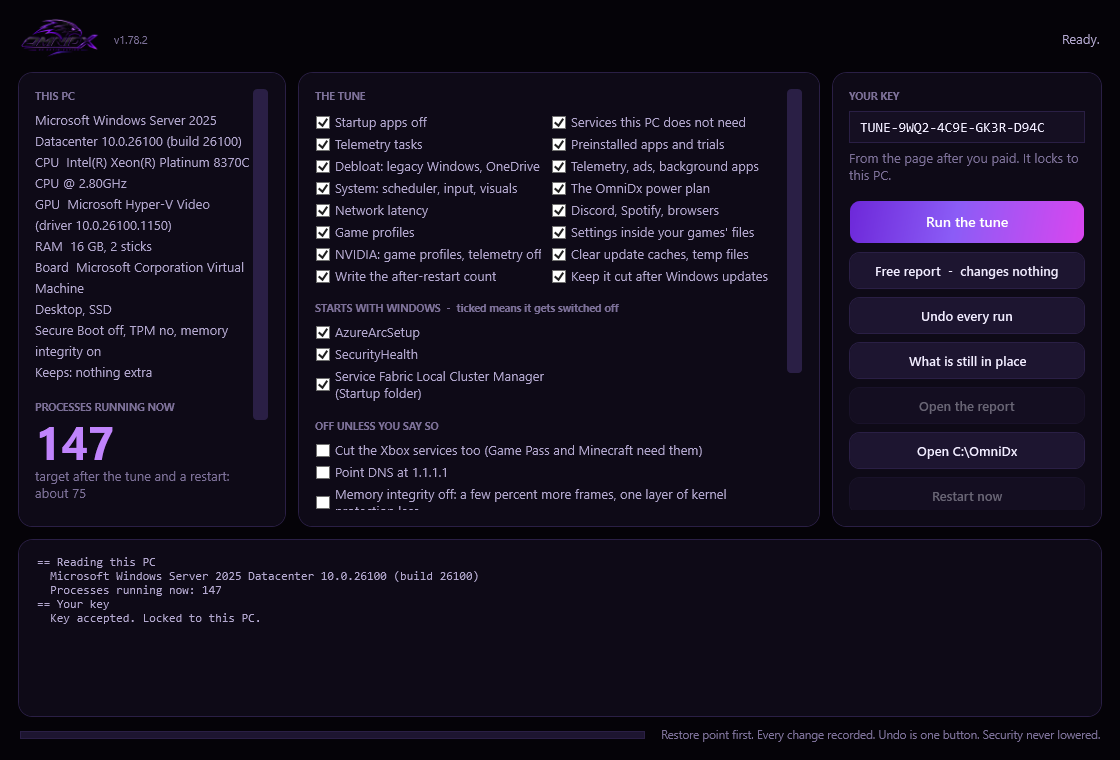
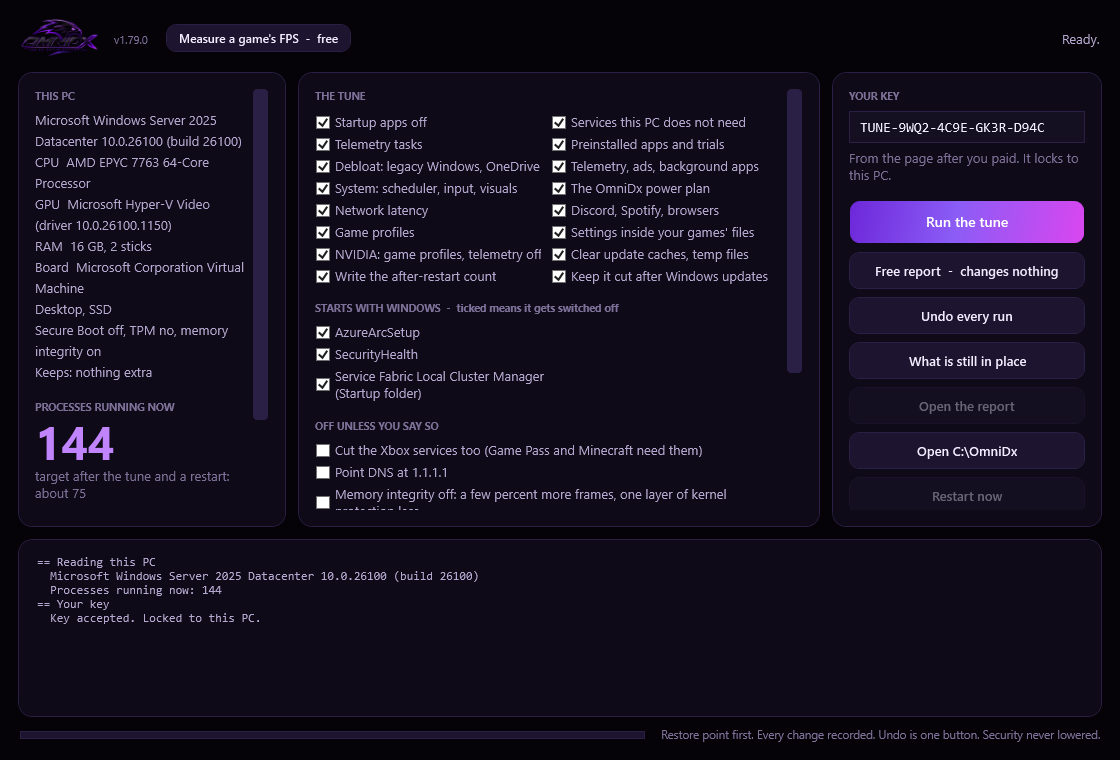
Windows check: the app window, the numbers, the log, and the script this run verified

Changed region(s): [[0.125, 0.0303, 0.3125, 0.0908], [0.0312, 0.2118, 0.2188, 0.2724], [0.0625, 0.5447, 0.125, 0.6053]]

diff --git a/studio/assets/ci-report.html b/studio/assets/ci-report.html
@@ -1,5 +1,5 @@
 <!doctype html><html lang="en"><head><meta charset="utf-8"><meta name="viewport" content="width=device-width,initial-scale=1">
-<title>OmniDx Tune report - 2026-09-26_08-22-51</title>
+<title>OmniDx Tune report - 2026-09-26_10-11-32</title>
 <style>
 body{margin:0;background:#050308;color:#f1ecff;font:15px/1.6 -apple-system,'Segoe UI',Roboto,system-ui,sans-serif}
 main{max-width:860px;margin:0 auto;padding:36px 20px 80px}
@@ -17,118 +17,116 @@ details{margin:10px 0;background:#0e0a17;border:1px solid #2a1f45;border-radius:
 details pre{font:12.5px/1.5 ui-monospace,Consolas,monospace;color:#b3a8cf;overflow:auto;max-height:420px;margin:10px 0 4px}
 .bios ul{list-style:none;padding-left:2px}.bios li{margin:8px 0;color:#f1ecff}.bios{background:#0e0a17;border:1px solid #2a1f45;border-radius:14px;padding:6px 18px}
 </style></head><body><main>
-<h1><img src="https://omnidx.net/studio/assets/icons/icon-192.png" alt="" width="44" height="44" style="vertical-align:middle;margin-right:10px" onerror="this.remove()">OmniDx Tune <span class="muted" style="font-size:16px">v1.78.2</span></h1>
-<p class="sub">Saturday, September 26, 2026 8:24 AM &middot; Intel(R) Xeon(R) Platinum 8370C CPU @ 2.80GHz &middot; Microsoft Hyper-V Video &middot; 16 GB &middot; Microsoft Corporation Virtual Machine</p>
-<div class="big"><div><b>148</b><span>processes before</span></div><div><b>139</b><span>now, before a restart</span></div><div><b>~75</b><span>target for this PC after a restart</span></div></div>
+<h1><img src="https://omnidx.net/studio/assets/icons/icon-192.png" alt="" width="44" height="44" style="vertical-align:middle;margin-right:10px" onerror="this.remove()">OmniDx Tune <span class="muted" style="font-size:16px">v1.79.0</span></h1>
+<p class="sub">Saturday, September 26, 2026 10:12 AM &middot; AMD EPYC 7763 64-Core Processor &middot; Microsoft Hyper-V Video &middot; 16 GB &middot; Microsoft Corporation Virtual Machine</p>
+<div class="big"><div><b>145</b><span>processes before</span></div><div><b>136</b><span>now, before a restart</span></div><div><b>~75</b><span>target for this PC after a restart</span></div></div>
 <p class='muted'>The card, for posting (the same numbers, on one picture): <code>ci-card.png</code></p><img src='ci-card.png' alt='Before and after, on a card' style='max-width:340px;width:100%;border-radius:14px;border:1px solid #2a1f45'>
 <p class="muted">Many of the "now" processes are only waiting to be stopped. The number after a restart is the one that counts; <code>C:\OmniDx\after-restart.txt</code> gets it at your next sign-in. Kept cut: a task at each sign-in puts back what a Windows update turns on; undo removes it.</p>
-<h2>Next steps</h2><ol><li>Restart. The services told to stop are still unwinding until you do, and the after-restart count lands in C:\OmniDx\after-restart.txt at your next sign-in, with the boot time of that start next to the one from before the tune.</li><li>BIOS: items 1 to 3 (memory profile, Re-Size BAR, CSM). Ten minutes, and the memory profile alone is the biggest free gain any PC has.</li><li>GPU control panel: low latency mode, power management and V-Sync, from the list below. Two minutes.</li><li>Launchers and overlays: the list below names the one or two settings in each that matter; the overlays are the usual cause of a stutter that &quot;came from nowhere&quot;.</li><li>Any time: $env:OMNIDX_MODE=&#39;status&#39;; irm omnidx.net/go.ps1 | iex shows what is still in place; undo is one line, and it is in this report.</li></ol>
-<h2>Before and after</h2><table><tr><th></th><th>Before</th><th>Now</th></tr><tr><td>Processes</td><td>148</td><td>139</td></tr><tr><td>Threads</td><td>1500</td><td>1436</td></tr><tr><td>Handles</td><td>49775</td><td>47201</td></tr><tr><td>Memory in use</td><td>2834 MB</td><td>2903 MB</td></tr><tr><td>Idle CPU</td><td>1.6%</td><td>2.2%</td></tr><tr><td>DPC time</td><td>0%</td><td>0%</td></tr></table>
+<h2>Next steps</h2><ol><li>Restart. The services told to stop are still unwinding until you do, and the after-restart count lands in C:\OmniDx\after-restart.txt at your next sign-in, with the boot time of that start next to the one from before the tune.</li><li>BIOS: items 1 to 3 (memory profile, Re-Size BAR, CSM). Ten minutes, and the memory profile alone is the biggest free gain any PC has.</li><li>GPU control panel: low latency mode, power management and V-Sync, from the list below. Two minutes.</li><li>Launchers and overlays: the list below names the one or two settings in each that matter; the overlays are the usual cause of a stutter that &quot;came from nowhere&quot;.</li><li>Your frame rate, measured, after the restart: irm omnidx.net/bench.ps1 | iex records a minute of a game with PresentMon (free, changes nothing). Ran it before the tune? It puts the two side by side and draws a card to post.</li><li>Any time: $env:OMNIDX_MODE=&#39;status&#39;; irm omnidx.net/go.ps1 | iex shows what is still in place; undo is one line, and it is in this report.</li></ol>
+<h2>Before and after</h2><table><tr><th></th><th>Before</th><th>Now</th></tr><tr><td>Processes</td><td>145</td><td>136</td></tr><tr><td>Threads</td><td>1371</td><td>1400</td></tr><tr><td>Handles</td><td>48930</td><td>46586</td></tr><tr><td>Memory in use</td><td>2863 MB</td><td>2948 MB</td></tr><tr><td>Idle CPU</td><td>0.2%</td><td>0.6%</td></tr><tr><td>DPC time</td><td>0%</td><td>0%</td></tr></table>
 <h2>Gone, by name</h2><p class='muted'>Running before, not running now: spoolsv</p>
-<details><summary>Every process, before (56 names)</summary><pre>svchost                                  x81     1,193 MB
-conhost                                  x4         33 MB
+<details><summary>Every process, before (55 names)</summary><pre>svchost                                  x79     1,177 MB
+conhost                                  x4         34 MB
 notepad                                  x3         89 MB
-taskhostw                                x3         63 MB
-WmiPrvSE                                 x3         62 MB
+taskhostw                                x3         88 MB
+WmiPrvSE                                 x3         74 MB
 csrss                                    x2         14 MB
 fontdrvhost                              x2         11 MB
 SMSvcHost                                x2         50 MB
-AzureArcSysTray                          x1         19 MB
-ctfmon                                   x1         26 MB
+AzureArcSysTray                          x1         20 MB
+ctfmon                                   x1         31 MB
 DefenderSessionHelper                    x1          6 MB
 dockerd                                  x1         46 MB
 dwm                                      x1         78 MB
-explorer                                 x1        160 MB
-hosted-compute-agent                     x1         21 MB
+explorer                                 x1        158 MB
+hosted-compute-agent                     x1         18 MB
 Idle                                     x1          0 MB
 LsaIso                                   x1          4 MB
 lsass                                    x1         31 MB
 MpDefenderCoreService                    x1         29 MB
 mqsvc                                    x1         19 MB
 msdtc                                    x1         14 MB
-MsMpEng                                  x1        162 MB
+MsMpEng                                  x1        163 MB
 node                                     x1         40 MB
 OpenConsole                              x1         14 MB
 powershell                               x1        167 MB
-provjobd.exe3311307104                   x1         36 MB
-Registry                                 x1         80 MB
-Runner.Listener                          x1         74 MB
-Runner.Worker                            x1        110 MB
+provjobd.exe4082375059                   x1         20 MB
+Registry                                 x1        116 MB
+Runner.Listener                          x1         71 MB
+Runner.Worker                            x1        101 MB
 RuntimeBroker                            x1         47 MB
-SearchHost                               x1        109 MB
+SearchHost                               x1        108 MB
 Secure System                            x1         52 MB
 SecurityHealthService                    x1         12 MB
 ServiceFabricLocalClusterManager         x1         36 MB
-services                                 x1         11 MB
+services                                 x1         12 MB
 ShellHost                                x1         42 MB
 sihost                                   x1         43 MB
-smartscreen                              x1         12 MB
 smss                                     x1          2 MB
 spoolsv                                  x1         22 MB
 sqlwriter                                x1         11 MB
 sshd                                     x1          9 MB
 StartMenuExperienceHost                  x1        130 MB
 System                                   x1          0 MB
-TiWorker                                 x1         30 MB
+TiWorker                                 x1         32 MB
 TrustedInstaller                         x1         10 MB
 UserOOBEBroker                           x1         11 MB
 vmcompute                                x1         11 MB
-vmms                                     x1         33 MB
+vmms                                     x1         34 MB
 WaAppAgent                               x1         87 MB
 WaSecAgentProv                           x1          5 MB
 WindowsAzureGuestAgent                   x1         70 MB
 WindowsTerminal                          x1         85 MB
 wininit                                  x1          9 MB
 winlogon                                 x1         13 MB
-wslservice                               x1         27 MB</pre></details><details><summary>Every process, after (56 names)</summary><pre>svchost                                  x72     1,083 MB
-conhost                                  x4         33 MB
-notepad                                  x3         88 MB
-taskhostw                                x3         57 MB
-WmiPrvSE                                 x3         69 MB
+wslservice                               x1         27 MB</pre></details><details><summary>Every process, after (55 names)</summary><pre>svchost                                  x70     1,039 MB
+conhost                                  x4         34 MB
+notepad                                  x3         89 MB
+taskhostw                                x3         87 MB
+WmiPrvSE                                 x3         79 MB
 csrss                                    x2         14 MB
 fontdrvhost                              x2         11 MB
 SMSvcHost                                x2         50 MB
-AzureArcSysTray                          x1         19 MB
-ctfmon                                   x1         26 MB
+AzureArcSysTray                          x1         20 MB
+ctfmon                                   x1         31 MB
 DefenderSessionHelper                    x1          6 MB
 dllhost                                  x1         13 MB
 dockerd                                  x1         46 MB
 dwm                                      x1         78 MB
-explorer                                 x1        160 MB
-hosted-compute-agent                     x1         20 MB
+explorer                                 x1        159 MB
+hosted-compute-agent                     x1         17 MB
 Idle                                     x1          0 MB
 LsaIso                                   x1          4 MB
 lsass                                    x1         31 MB
 MpDefenderCoreService                    x1         29 MB
 mqsvc                                    x1         19 MB
 msdtc                                    x1         14 MB
-MsMpEng                                  x1        162 MB
-node                                     x1         39 MB
+MsMpEng                                  x1        163 MB
+node                                     x1         38 MB
 OpenConsole                              x1         14 MB
-powershell                               x1        199 MB
-provjobd.exe3311307104                   x1         35 MB
+powershell                               x1        228 MB
+provjobd.exe4082375059                   x1         20 MB
 Registry                                 x1         65 MB
 Runner.Listener                          x1         67 MB
-Runner.Worker                            x1        104 MB
+Runner.Worker                            x1         98 MB
 RuntimeBroker                            x1         47 MB
-SearchHost                               x1        109 MB
+SearchHost                               x1        108 MB
 Secure System                            x1         52 MB
 SecurityHealthService                    x1         12 MB
 ServiceFabricLocalClusterManager         x1         36 MB
-services                                 x1         11 MB
+services                                 x1         12 MB
 ShellHost                                x1         42 MB
-sihost                                   x1         43 MB
-smartscreen                              x1         12 MB
+sihost                                   x1         42 MB
 smss                                     x1          2 MB
 sqlwriter                                x1         11 MB
 sshd                                     x1          9 MB
 StartMenuExperienceHost                  x1        131 MB
 System                                   x1          0 MB
-TiWorker                                 x1         39 MB
+TiWorker                                 x1         41 MB
 TrustedInstaller                         x1         10 MB
 UserOOBEBroker                           x1         11 MB
 vmcompute                                x1         11 MB
-vmms                                     x1         33 MB
+vmms                                     x1         34 MB
 WaAppAgent                               x1         87 MB
 WaSecAgentProv                           x1          5 MB
 WindowsAzureGuestAgent                   x1         70 MB
@@ -138,14 +136,14 @@ winlogon                                 x1         13 MB
 wslservice                               x1         27 MB</pre></details>
 <h2>Kept, and why</h2><ul><li>Defender, the firewall, Windows Update, audio, networking: always</li><li>Themes: Windows 10 falls back to the classic look without it</li><li>vmicguestinterface: this is a virtual machine</li><li>vmicheartbeat: this is a virtual machine</li><li>vmickvpexchange: this is a virtual machine</li><li>vmicrdv: this is a virtual machine</li><li>vmicshutdown: this is a virtual machine</li><li>vmictimesync: this is a virtual machine</li><li>vmicvmsession: this is a virtual machine</li><li>vmicvss: this is a virtual machine</li><li>XblAuthManager: Game Pass, the Xbox app or Minecraft is installed</li></ul>
 <h2>Warnings (3)</h2><div class="warn"><ul><li>The GPU driver dates from Jun 2006. A current driver is worth more than most tweaks.</li><li>This looks like a virtual machine. The tune will run, but the numbers mean little here.</li><li>Could not make a restore point (This functionality is not supported on this operating system.). The undo script still records everything.</li></ul></div>
-<h2>BIOS checklist for Microsoft Corporation Virtual Machine</h2><div class="bios"><ul><li>How to get in: restart, then press Del or F2 while the logo shows.</li><li>Where things are: the Advanced / Overclocking pages for memory, the PCI or Chipset page for Above 4G / Re-Size BAR, the Boot page for CSM, the Security page for TPM and Secure Boot.</li><li>1. Memory profile: enable XMP. Your RAM is running at the slow default until you do; this is the single biggest free gain on any PC. Pick the profile matching the speed printed on the sticks.</li><li>2. Re-Size BAR / Smart Access Memory: set Above 4G Decoding = Enabled, then Re-Size BAR Support = Auto/Enabled. Needs CSM off (next line). Worth 5-15% in many games on RTX 30/40/50 and RX 6000+.</li><li>3. CSM (Compatibility Support Module): Disabled. You already boot UEFI, so nothing depends on it, and Re-Size BAR needs it off.</li><li>4. Secure Boot: Enabled. Windows 11 and Vanguard expect it; on 10 it costs nothing. Set OS Type / Secure Boot Mode to Windows UEFI if asked.</li><li>5. TPM: not detected. Enable AMD fTPM (AMD) or Intel PTT (Intel) under Security / Trusted Computing. VALORANT on Windows 11 will not run without it.</li><li>6. Intel: leave MultiCore Enhancement at Auto; set the long and short power limits (PL1/PL2) to the chip&#39;s rated maximum if the board runs them lower. Do not touch voltages.</li><li>7. Global C-states / package C-states: Auto is fine. Disabling them buys nothing measurable in games and raises idle heat.</li><li>8. Fast Boot: Enabled. Full Screen Logo / Boot Logo: Disabled (a second off every boot).</li><li>9. Fan curves: set the CPU fan to reach 100% by 80 C and the case fans to a steady ramp. Sustained boost needs airflow more than anything.</li><li>10. Onboard devices you do not use: serial port, Wi-Fi/Bluetooth if wired, onboard audio if you use USB audio, RGB controllers. Each one removed is an interrupt source gone.</li><li>11. HPET: leave at default. The &#39;disable HPET&#39; tweak is from 2013 and hurts more than it helps on modern Windows.</li><li>12. Virtualisation (SVM / VT-x): leave on if you use WSL, Docker, an emulator, or play VALORANT or on FACEIT (their anti-cheat needs it, with IOMMU); otherwise off saves a little scheduling overhead.</li><li>After saving: Windows will boot normally. If it does not (rare, usually CSM), go back in and re-enable the last thing you changed.</li><li>Do not update the BIOS unless the vendor&#39;s notes mention a fix for your exact problem; a failed flash is the one thing here that cannot be undone from Windows.</li></ul></div>
+<h2>BIOS checklist for Microsoft Corporation Virtual Machine</h2><div class="bios"><ul><li>How to get in: restart, then press Del or F2 while the logo shows.</li><li>Where things are: the Advanced / Overclocking pages for memory, the PCI or Chipset page for Above 4G / Re-Size BAR, the Boot page for CSM, the Security page for TPM and Secure Boot.</li><li>1. Memory profile: enable EXPO (or DOCP / A-XMP on older boards). Your RAM is running at the slow default until you do; this is the single biggest free gain on any PC. Pick the profile matching the speed printed on the sticks.</li><li>2. Re-Size BAR / Smart Access Memory: set Above 4G Decoding = Enabled, then Re-Size BAR Support = Auto/Enabled. Needs CSM off (next line). Worth 5-15% in many games on RTX 30/40/50 and RX 6000+.</li><li>3. CSM (Compatibility Support Module): Disabled. You already boot UEFI, so nothing depends on it, and Re-Size BAR needs it off.</li><li>4. Secure Boot: Enabled. Windows 11 and Vanguard expect it; on 10 it costs nothing. Set OS Type / Secure Boot Mode to Windows UEFI if asked.</li><li>5. TPM: not detected. Enable AMD fTPM (AMD) or Intel PTT (Intel) under Security / Trusted Computing. VALORANT on Windows 11 will not run without it.</li><li>6. Precision Boost Overdrive: Enabled (or Advanced with the Curve Optimizer at a modest negative offset like -15 all-core if you know your cooler). Never a positive voltage offset.</li><li>7. Global C-states / package C-states: Auto is fine. Disabling them buys nothing measurable in games and raises idle heat.</li><li>8. Fast Boot: Enabled. Full Screen Logo / Boot Logo: Disabled (a second off every boot).</li><li>9. Fan curves: set the CPU fan to reach 100% by 80 C and the case fans to a steady ramp. Sustained boost needs airflow more than anything.</li><li>10. Onboard devices you do not use: serial port, Wi-Fi/Bluetooth if wired, onboard audio if you use USB audio, RGB controllers. Each one removed is an interrupt source gone.</li><li>11. HPET: leave at default. The &#39;disable HPET&#39; tweak is from 2013 and hurts more than it helps on modern Windows.</li><li>12. Virtualisation (SVM / VT-x): leave on if you use WSL, Docker, an emulator, or play VALORANT or on FACEIT (their anti-cheat needs it, with IOMMU); otherwise off saves a little scheduling overhead.</li><li>After saving: Windows will boot normally. If it does not (rare, usually CSM), go back in and re-enable the last thing you changed.</li><li>Do not update the BIOS unless the vendor&#39;s notes mention a fix for your exact problem; a failed flash is the one thing here that cannot be undone from Windows.</li></ul></div>
 <h2>GPU control panel</h2><ul><li>GPU not identified; use the vendor control panel to set low-latency mode on, power management to maximum performance and V-Sync off.</li></ul>
-<h2>Undervolt, not overclock, and a frame cap</h2><ul><li>GPU: the vendor tool has a frame limiter; set it three below the refresh rate with adaptive sync on.</li><li>CPU (Intel): on 13th and 14th gen, install the latest BIOS first (the microcode that stops the degradation), and leave the voltage alone unless the board exposes an offset; on a K chip a small negative offset is the same idea as Ryzen&#39;s Curve Optimizer.</li><li>Never an overclock: it is more heat and more voltage for frames you cannot see, and it is the first thing a crash report points at.</li></ul>
+<h2>Undervolt, not overclock, and a frame cap</h2><ul><li>GPU: the vendor tool has a frame limiter; set it three below the refresh rate with adaptive sync on.</li><li>CPU undervolt (Ryzen): BIOS &gt; PBO &gt; Curve Optimizer &gt; all cores, negative 15 to start (negative 30 on most 7000 and 9000 chips), then an hour of a game and a stress test; one step back on any crash or reboot. Lower temperature, higher sustained boost, nothing else changes.</li><li>Never an overclock: it is more heat and more voltage for frames you cannot see, and it is the first thing a crash report points at.</li></ul>
 <h2>Launchers, overlays and helper apps</h2><ul><li>Xbox app: Settings &gt; General &gt; &quot;Auto-start&quot; off (the entry the tune switched off), &quot;Show notifications&quot; off. Game Pass games install under C:\XboxGames and are already in the CPU-priority list where the game is listed.</li></ul>
 <h2>Left by other tools</h2><p class="muted">The tune changes none of these; it names them, with the way back.</p><ul><li>Nothing found: no other tool has left Defender, Windows Update, SmartScreen, User Account Control or the CPU mitigations switched off on this PC.</li></ul>
 <h2>Per game</h2><p class='muted'>Not found on this PC (the same profile applies if you install them): Fortnite, VALORANT, Counter-Strike 2, Marvel Rivals, Apex Legends, Call of Duty (Warzone / MW), Overwatch 2, Rainbow Six Siege, Rocket League, Minecraft, Roblox, League of Legends, GTA V / Online, Rust, Escape from Tarkov, PUBG, The Finals, Dota 2, Battlefield 6, Deadlock, Delta Force, ARC Raiders, Helldivers 2, Warframe, Destiny 2, Halo Infinite, Dead by Daylight, Hunt: Showdown 1896, War Thunder, World of Warcraft, Squad, Battlefield 2042, EA Sports FC 26, NBA 2K26, Palworld, Path of Exile 2, Diablo IV, Monster Hunter Wilds, Elden Ring / Nightreign, Cyberpunk 2077, Baldur&#39;s Gate 3, Star Citizen, DayZ, Arma Reforger, Hell Let Loose, Genshin Impact, Ready or Not, Final Fantasy XIV, STALKER 2, Sea of Thieves</p>
-<h2>What was done</h2><h4>Safety first</h4><div class='did'>Registry and service list backed up to C:\OmniDx\backup\2026-09-26_08-22-51</div><div class='did'>undo.ps1 written to C:\OmniDx\undo</div><h4>Startup apps</h4><div class='did'>off: AzureArcSetup</div><div class='did'>off: Service Fabric Local Cluster Manager (Startup folder)</div><h4>Services</h4><div class='did'>dmwappushservice -&gt; disabled  (telemetry push)</div><div class='did'>WerSvc -&gt; disabled  (error reporting)</div><div class='did'>wercplsupport -&gt; disabled  (error reporting)</div><div class='did'>PcaSvc -&gt; disabled  (compatibility assistant)</div><div class='did'>lfsvc -&gt; disabled  (geolocation)</div><div class='did'>RemoteRegistry -&gt; disabled  (remote registry)</div><div class='did'>WMPNetworkSvc -&gt; disabled  (media sharing)</div><div class='did'>TrkWks -&gt; disabled  (link tracking)</div><div class='did'>WalletService -&gt; disabled  (wallet)</div><div class='did'>wisvc -&gt; disabled  (insider program)</div><div class='did'>SEMgrSvc -&gt; disabled  (payments and NFC)</div><div class='did'>TapiSrv -&gt; disabled  (telephony)</div><div class='did'>SharedAccess -&gt; disabled  (internet connection sharing)</div><div class='did'>edgeupdate -&gt; manual  (Edge updater (runs on demand))</div><div class='did'>WbioSrvc -&gt; disabled  (biometrics)</div><div class='did'>SysMain already disabled; left that way</div><div class='did'>WSearch already disabled; left that way</div><div class='did'>Spooler -&gt; disabled  (print spooler)</div><div class='did'>bthserv -&gt; disabled  (bluetooth)</div><div class='did'>WlanSvc -&gt; disabled  (wi-fi)</div><div class='did'>CDPSvc -&gt; manual  (connected devices)</div><div class='did'>CDPUserSvc already disabled; left that way</div><div class='did'>OneSyncSvc already disabled; left that way</div><div class='did'>PimIndexMaintenanceSvc already disabled; left that way</div><div class='did'>UnistoreSvc already disabled; left that way</div><div class='did'>UserDataSvc already disabled; left that way</div><div class='did'>SSDPSRV already disabled; left that way</div><div class='did'>upnphost already disabled; left that way</div><div class='did'>DPS -&gt; manual  (diagnostic policy)</div><div class='did'>SCardSvr -&gt; disabled  (smart card)</div><div class='did'>ScDeviceEnum -&gt; disabled  (smart card)</div><div class='did'>CertPropSvc -&gt; disabled  (smart card)</div><div class='did'>iphlpsvc -&gt; manual  (ipv6 tunnels)</div><div class='did'>cbdhsvc -&gt; manual  (clipboard history)</div><div class='did'>WpnService -&gt; manual  (push notifications)</div><div class='did'>WpnUserService -&gt; manual  (push notifications)</div><div class='did'>SNMPTRAP -&gt; disabled  (SNMP traps)</div><div class='did'>workfolderssvc -&gt; disabled  (Work Folders sync)</div><h4>Scheduled tasks</h4><div class='did'>PcaPatchDbTask</div><div class='did'>CreateObjectTask</div><div class='did'>Device</div><div class='did'>Device User</div><div class='did'>LoginCheck</div><div class='did'>WindowsActionDialog</div><div class='did'>OobeDiscovery</div><div class='did'>Diagnostics</div><div class='did'>UsageDataFlushing</div><div class='did'>UsageDataReporting</div><div class='did'>Registration</div><div class='did'>IndexerAutomaticMaintenance</div><div class='did'>Storage Tiers Management Initialization</div><div class='did'>UPnPHostConfig</div><div class='did'>ResolutionHost</div><div class='did'>UpdateLibrary</div><div class='did'>Work Folders Logon Synchronization</div><div class='did'>Work Folders Maintenance Work</div><h4>Preinstalled apps</h4><div class='did'>Microsoft.WindowsFeedbackHub</div><h4>Debloat</h4><div class='did'>removed Steps Recorder (screenshots every click, retired by Microsoft)</div><div class='did'>removed the 2009 Windows Media Player (the Store one stays)</div><div class='did'>removed Math Input Panel</div><div class='did'>removed Internet Explorer 11</div><div class='did'>off: Work Folders (corporate sync)</div><div class='did'>Edge: shopping assistant, recommendations, Spotlight, feedback prompts and reporting off</div><div class='did'>Kept gone: consumer features, suggested apps, account nags and the &#39;finish setting up&#39; screen are off by policy</div><h4>Telemetry, background activity, the shell</h4><div class='did'>Telemetry, the advertising id, activity history, suggestions, Bing in Start, Recall and Edge&#39;s reporting off; background apps off; widgets, news, Copilot and Cortana off; Game DVR off, Game Mode on; the classic right-click menu on 11</div><h4>System tuning</h4><div class='did'>NTFS last-access stamps off</div><div class='did'>NTFS allowed more memory for its cache</div><div class='did'>Defender&#39;s scheduled scans already capped at 5% of the CPU, lower than the tune&#39;s 25%: left as it is</div><h4>The OmniDx power plan</h4><div class='did'>2 plan setting(s) this PC does not have were skipped.</div><div class='did'>OmniDx plan created and active: CPU 100/100, boost aggressive, energy preference on performance, no core parking, no throttle states on a desktop, PCIe, USB and Wi-Fi power saving off, no sleep on mains.</div><h4>Network</h4><div class='did'>TCP: autotuning normal, ECN and timestamps off, receive-side scaling on, segment coalescing off, CTCP.</div><div class='did'>Ethernet 3: Nagle off, power saving off</div><div class='did'>Ethernet 4: Interrupt Moderation off</div><div class='did'>Ethernet 4: Nagle off, power saving off</div><h4>Discord, Spotify, browsers</h4><div class='did'>Discord: hardware acceleration on; it still starts with Windows, as you chose</div><div class='did'>Spotify: hardware acceleration on, no auto-start, friend feed off</div><div class='did'>Chrome: no background mode, hardware acceleration on</div><div class='did'>Edge: no startup boost, no background mode, hardware acceleration on</div><h4>Game profiles</h4><div class='did'>No listed game found on the usual drives; the CPU-priority profiles are in place for when one is installed.</div><h4>Game settings files</h4><div class='did'>Fortnite: V-Sync off, motion blur off, shadows off, post-processing low</div><div class='did'>Apex Legends: V-Sync off, sun shadows off, spot shadows off</div><div class='did'>Rocket League: V-Sync off, motion blur off, dynamic shadows off, depth of field off</div><div class='did'>Minecraft (Java): V-Sync off</div><h4>Cleanup</h4><div class='did'>Temp files, the Windows Update download cache and the peer-to-peer update cache cleared: about 304 MB back.</div><h4>Keeping it cut</h4><div class='did'>Task &#39;OmniDx keep&#39; runs three minutes after sign-in, puts back whatever an update turned on, notes that start&#39;s boot time and writes card-after-restart.png with that start&#39;s count. Log: C:\OmniDx\keep-log.txt. Undo removes it.</div>
-<h2>Undo</h2><p>Administrator PowerShell: <code>powershell -ExecutionPolicy Bypass -File C:\OmniDx\undo\undo.ps1</code><br>No restore point was made on this run (see the warnings); the undo script is the way back.<br>Changes recorded in <code>C:\OmniDx\undo\changes-2026-09-26_08-22-51.json</code>.</p>
+<h2>What was done</h2><h4>Safety first</h4><div class='did'>Registry and service list backed up to C:\OmniDx\backup\2026-09-26_10-11-32</div><div class='did'>undo.ps1 written to C:\OmniDx\undo</div><h4>Startup apps</h4><div class='did'>off: AzureArcSetup</div><div class='did'>off: Service Fabric Local Cluster Manager (Startup folder)</div><h4>Services</h4><div class='did'>dmwappushservice -&gt; disabled  (telemetry push)</div><div class='did'>WerSvc -&gt; disabled  (error reporting)</div><div class='did'>wercplsupport -&gt; disabled  (error reporting)</div><div class='did'>PcaSvc -&gt; disabled  (compatibility assistant)</div><div class='did'>lfsvc -&gt; disabled  (geolocation)</div><div class='did'>RemoteRegistry -&gt; disabled  (remote registry)</div><div class='did'>WMPNetworkSvc -&gt; disabled  (media sharing)</div><div class='did'>TrkWks -&gt; disabled  (link tracking)</div><div class='did'>WalletService -&gt; disabled  (wallet)</div><div class='did'>wisvc -&gt; disabled  (insider program)</div><div class='did'>SEMgrSvc -&gt; disabled  (payments and NFC)</div><div class='did'>TapiSrv -&gt; disabled  (telephony)</div><div class='did'>SharedAccess -&gt; disabled  (internet connection sharing)</div><div class='did'>edgeupdate -&gt; manual  (Edge updater (runs on demand))</div><div class='did'>WbioSrvc -&gt; disabled  (biometrics)</div><div class='did'>SysMain already disabled; left that way</div><div class='did'>WSearch already disabled; left that way</div><div class='did'>Spooler -&gt; disabled  (print spooler)</div><div class='did'>bthserv -&gt; disabled  (bluetooth)</div><div class='did'>WlanSvc -&gt; disabled  (wi-fi)</div><div class='did'>CDPSvc -&gt; manual  (connected devices)</div><div class='did'>CDPUserSvc already disabled; left that way</div><div class='did'>OneSyncSvc already disabled; left that way</div><div class='did'>PimIndexMaintenanceSvc already disabled; left that way</div><div class='did'>UnistoreSvc already disabled; left that way</div><div class='did'>UserDataSvc already disabled; left that way</div><div class='did'>SSDPSRV already disabled; left that way</div><div class='did'>upnphost already disabled; left that way</div><div class='did'>DPS -&gt; manual  (diagnostic policy)</div><div class='did'>SCardSvr -&gt; disabled  (smart card)</div><div class='did'>ScDeviceEnum -&gt; disabled  (smart card)</div><div class='did'>CertPropSvc -&gt; disabled  (smart card)</div><div class='did'>iphlpsvc -&gt; manual  (ipv6 tunnels)</div><div class='did'>cbdhsvc -&gt; manual  (clipboard history)</div><div class='did'>WpnService -&gt; manual  (push notifications)</div><div class='did'>WpnUserService -&gt; manual  (push notifications)</div><div class='did'>SNMPTRAP -&gt; disabled  (SNMP traps)</div><div class='did'>workfolderssvc -&gt; disabled  (Work Folders sync)</div><h4>Scheduled tasks</h4><div class='did'>PcaPatchDbTask</div><div class='did'>CreateObjectTask</div><div class='did'>Device</div><div class='did'>Device User</div><div class='did'>LoginCheck</div><div class='did'>WindowsActionDialog</div><div class='did'>OobeDiscovery</div><div class='did'>Diagnostics</div><div class='did'>UsageDataFlushing</div><div class='did'>UsageDataReporting</div><div class='did'>Registration</div><div class='did'>IndexerAutomaticMaintenance</div><div class='did'>Storage Tiers Management Initialization</div><div class='did'>UPnPHostConfig</div><div class='did'>ResolutionHost</div><div class='did'>UpdateLibrary</div><div class='did'>Work Folders Logon Synchronization</div><div class='did'>Work Folders Maintenance Work</div><h4>Preinstalled apps</h4><div class='did'>Microsoft.WindowsFeedbackHub</div><h4>Debloat</h4><div class='did'>removed Steps Recorder (screenshots every click, retired by Microsoft)</div><div class='did'>removed the 2009 Windows Media Player (the Store one stays)</div><div class='did'>removed Math Input Panel</div><div class='did'>removed Internet Explorer 11</div><div class='did'>off: Work Folders (corporate sync)</div><div class='did'>Edge: shopping assistant, recommendations, Spotlight, feedback prompts and reporting off</div><div class='did'>Kept gone: consumer features, suggested apps, account nags and the &#39;finish setting up&#39; screen are off by policy</div><h4>Telemetry, background activity, the shell</h4><div class='did'>Telemetry, the advertising id, activity history, suggestions, Bing in Start, Recall and Edge&#39;s reporting off; background apps off; widgets, news, Copilot and Cortana off; Game DVR off, Game Mode on; the classic right-click menu on 11</div><h4>System tuning</h4><div class='did'>NTFS last-access stamps off</div><div class='did'>NTFS allowed more memory for its cache</div><div class='did'>Defender&#39;s scheduled scans already capped at 5% of the CPU, lower than the tune&#39;s 25%: left as it is</div><h4>The OmniDx power plan</h4><div class='did'>2 plan setting(s) this PC does not have were skipped.</div><div class='did'>OmniDx plan created and active: CPU 100/100, boost aggressive, energy preference on performance, no core parking, no throttle states on a desktop, PCIe, USB and Wi-Fi power saving off, no sleep on mains.</div><h4>Network</h4><div class='did'>TCP: autotuning normal, ECN and timestamps off, receive-side scaling on, segment coalescing off, CTCP.</div><div class='did'>Ethernet 4: Interrupt Moderation off</div><div class='did'>Ethernet 4: Nagle off, power saving off</div><div class='did'>Ethernet 3: Nagle off, power saving off</div><h4>Discord, Spotify, browsers</h4><div class='did'>Discord: hardware acceleration on; it still starts with Windows, as you chose</div><div class='did'>Spotify: hardware acceleration on, no auto-start, friend feed off</div><div class='did'>Chrome: no background mode, hardware acceleration on</div><div class='did'>Edge: no startup boost, no background mode, hardware acceleration on</div><h4>Game profiles</h4><div class='did'>No listed game found on the usual drives; the CPU-priority profiles are in place for when one is installed.</div><h4>Game settings files</h4><div class='did'>Fortnite: V-Sync off, motion blur off, shadows off, post-processing low</div><div class='did'>Apex Legends: V-Sync off, sun shadows off, spot shadows off</div><div class='did'>Rocket League: V-Sync off, motion blur off, dynamic shadows off, depth of field off</div><div class='did'>Minecraft (Java): V-Sync off</div><h4>Cleanup</h4><div class='did'>Temp files, the Windows Update download cache and the peer-to-peer update cache cleared: about 305 MB back.</div><h4>Keeping it cut</h4><div class='did'>Task &#39;OmniDx keep&#39; runs three minutes after sign-in, puts back whatever an update turned on, notes that start&#39;s boot time and writes card-after-restart.png with that start&#39;s count. Log: C:\OmniDx\keep-log.txt. Undo removes it.</div>
+<h2>Undo</h2><p>Administrator PowerShell: <code>powershell -ExecutionPolicy Bypass -File C:\OmniDx\undo\undo.ps1</code><br>No restore point was made on this run (see the warnings); the undo script is the way back.<br>Changes recorded in <code>C:\OmniDx\undo\changes-2026-09-26_10-11-32.json</code>.</p>
 <h2>Status, any time</h2><p>What is still in place, what an update put back, the keep task and the after-restart count: <code>$env:OMNIDX_MODE='status'; irm omnidx.net/go.ps1 | iex</code><br><span class="muted">README.txt in C:\OmniDx says what each file there is.</span></p>
 <p class="muted" style="margin-top:40px">omnidx.net &middot; one payment, one PC, undo in one line.</p>
 </main></body></html>
